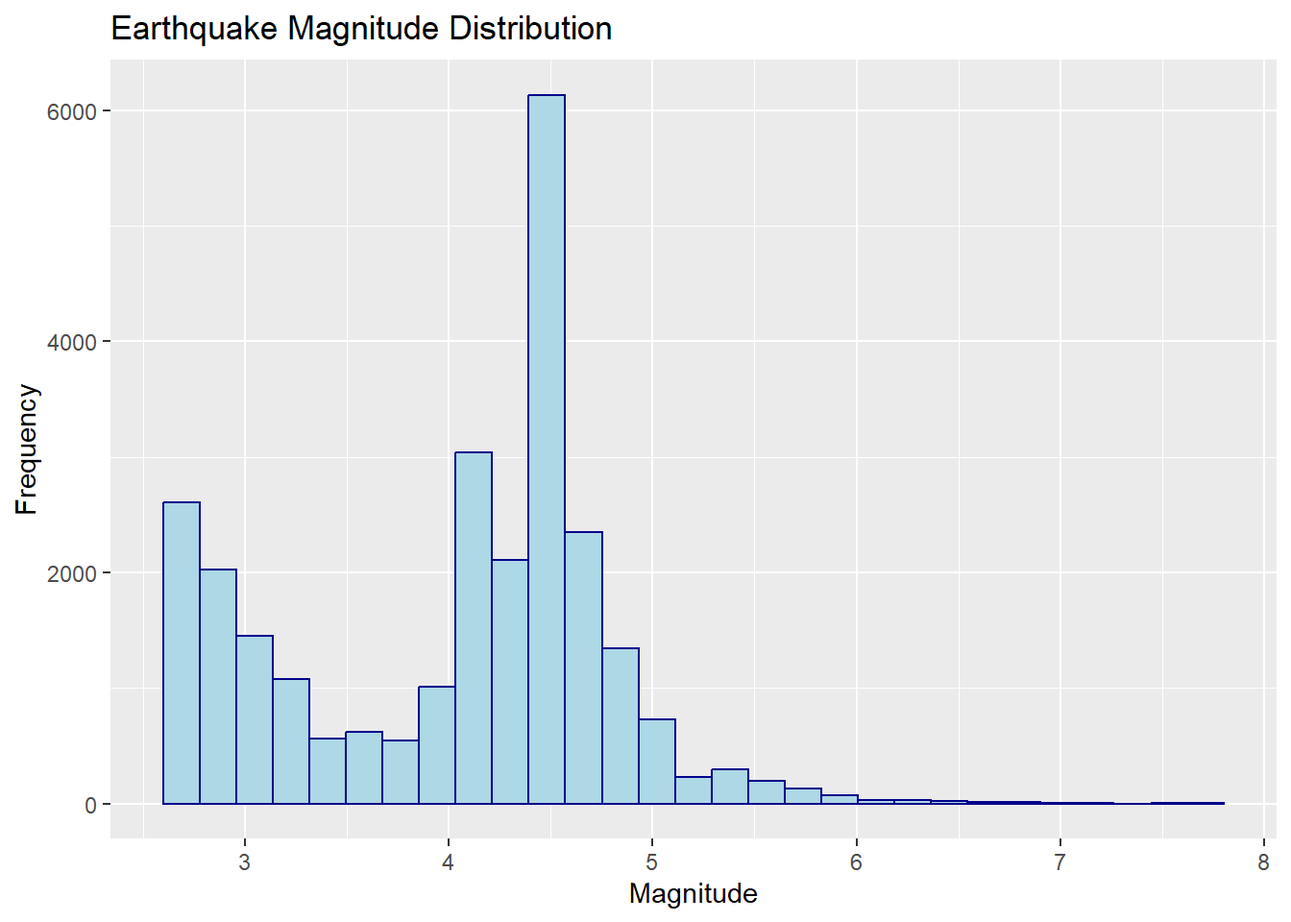
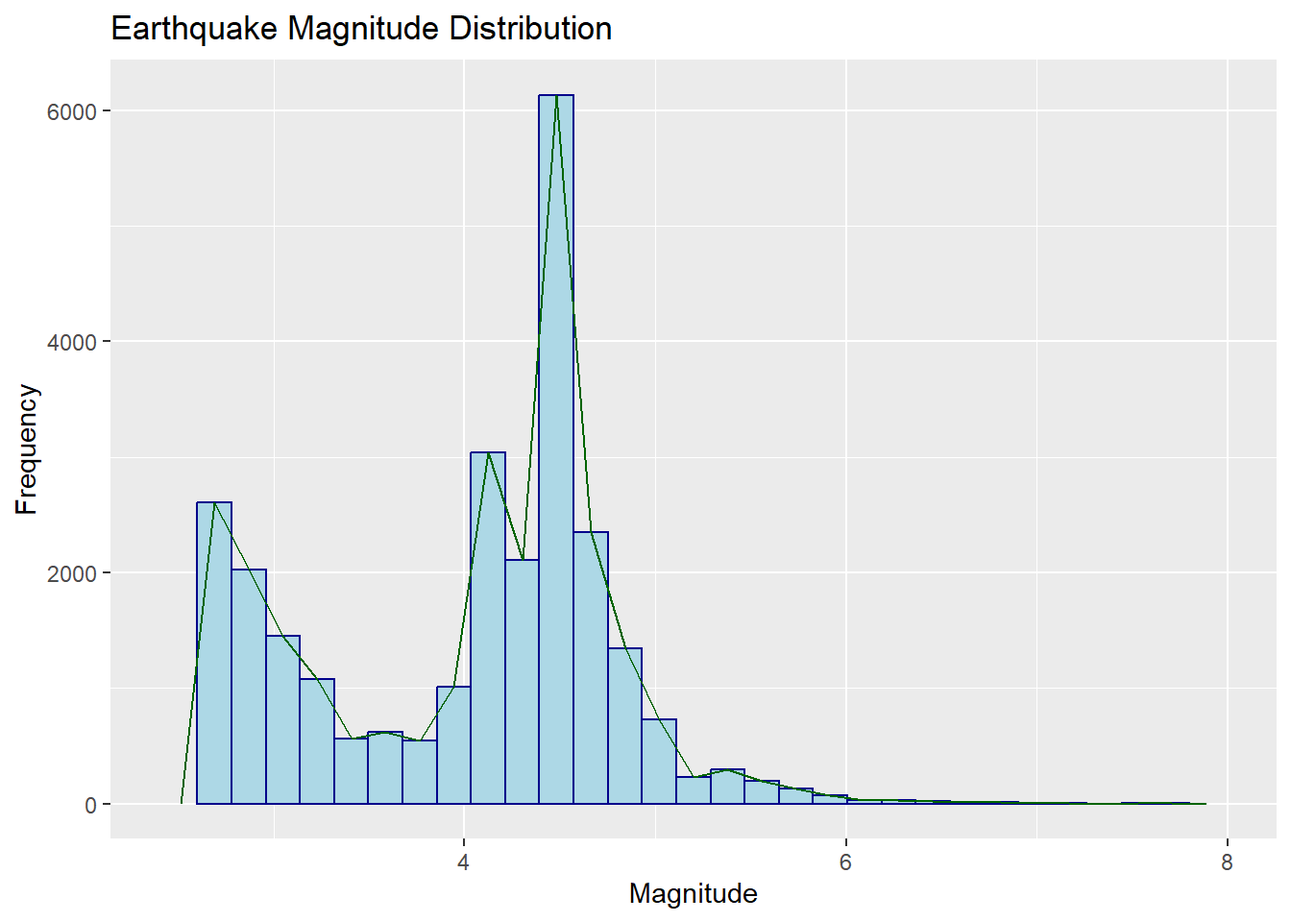
Make changes

diff --git a/docs/posts/2023 Global Earthquake Activity/index.html b/docs/posts/2023 Global Earthquake Activity/index.html
@@ -184,6 +184,7 @@ pre > code.sourceCode > span > a:first-child::before { text-decoration: underlin
 
 <section id="introduction" class="level1">
 <h1>Introduction</h1>
+<p>This is an analysis of the 2023 global earthquake data. The data was obtained from <a href="https://www.kaggle.com/datasets/mustafakeser4/earthquakes-2023-global/data">Earthquakes 2023 Global</a>. The data contains information about the location, magnitude, depth, and other attributes of earthquakes that occurred in 2023. The data is stored in a CSV file and contains 26642 rows and 22 columns. The primary goal of this analysis is to explore the distribution of earthquake magnitudes, the relationship between earthquake magnitudes and depths, and the geographical distribution of earthquakes around the world.</p>
 </section>
 <section id="primary-visualization" class="level1">
 <h1>Primary Visualization</h1>
@@ -192,30 +193,64 @@ pre > code.sourceCode > span > a:first-child::before { text-decoration: underlin
 <div class="cell">
 <div class="sourceCode cell-code" id="cb1"><pre class="sourceCode r code-with-copy"><code class="sourceCode r"><span id="cb1-1"><a href="#cb1-1" aria-hidden="true" tabindex="-1"></a><span class="fu">ggplot</span>(earthquake_df, <span class="fu">aes</span>(<span class="at">x =</span> mag)) <span class="sc">+</span></span>
 <span id="cb1-2"><a href="#cb1-2" aria-hidden="true" tabindex="-1"></a>  <span class="fu">geom_histogram</span>(<span class="at">fill =</span> <span class="st">"lightblue"</span>, <span class="at">color =</span> <span class="st">"darkblue"</span>) <span class="sc">+</span></span>
-<span id="cb1-3"><a href="#cb1-3" aria-hidden="true" tabindex="-1"></a>  <span class="fu">labs</span>(<span class="at">title =</span> <span class="st">"Earthquake Magnitude Distribution"</span>,</span>
-<span id="cb1-4"><a href="#cb1-4" aria-hidden="true" tabindex="-1"></a>       <span class="at">x =</span> <span class="st">"Magnitude"</span>,</span>
-<span id="cb1-5"><a href="#cb1-5" aria-hidden="true" tabindex="-1"></a>       <span class="at">y =</span> <span class="st">"Frequency"</span>)</span></code><button title="Copy to Clipboard" class="code-copy-button"><i class="bi"></i></button></pre></div>
+<span id="cb1-3"><a href="#cb1-3" aria-hidden="true" tabindex="-1"></a>  <span class="fu">geom_freqpoly</span>(<span class="at">color =</span> <span class="st">"darkgreen"</span>) <span class="sc">+</span></span>
+<span id="cb1-4"><a href="#cb1-4" aria-hidden="true" tabindex="-1"></a>  <span class="fu">labs</span>(<span class="at">title =</span> <span class="st">"Earthquake Magnitude Distribution"</span>,</span>
+<span id="cb1-5"><a href="#cb1-5" aria-hidden="true" tabindex="-1"></a>       <span class="at">x =</span> <span class="st">"Magnitude"</span>,</span>
+<span id="cb1-6"><a href="#cb1-6" aria-hidden="true" tabindex="-1"></a>       <span class="at">y =</span> <span class="st">"Frequency"</span>)</span></code><button title="Copy to Clipboard" class="code-copy-button"><i class="bi"></i></button></pre></div>
 <div class="cell-output cell-output-stderr">
-<pre><code>`stat_bin()` using `bins = 30`. Pick better value with `binwidth`.</code></pre>
+<pre><code>`stat_bin()` using `bins = 30`. Pick better value with `binwidth`.
+`stat_bin()` using `bins = 30`. Pick better value with `binwidth`.</code></pre>
 </div>
 <div class="cell-output-display">
 <p><img src="index_files/figure-html/unnamed-chunk-1-1.png" class="img-fluid" width="672"></p>
 </div>
 </div>
 </section>
+<section id="intepretation" class="level2">
+<h2 class="anchored" data-anchor-id="intepretation">Intepretation</h2>
+<p>The histogram above shows the distribution of earthquake magnitudes. The majority of earthquakes have a magnitude between 4 and 5. There are very few earthquakes with a magnitude greater than 7. This is consistent with the fact that most earthquakes are small and go unnoticed by people, while large earthquakes are relatively rare.</p>
+</section>
 <section id="earthquake-magnitude-vs-depth" class="level2">
 <h2 class="anchored" data-anchor-id="earthquake-magnitude-vs-depth">Earthquake Magnitude vs Depth</h2>
 <div class="cell">
-<div class="sourceCode cell-code" id="cb3"><pre class="sourceCode r code-with-copy"><code class="sourceCode r"><span id="cb3-1"><a href="#cb3-1" aria-hidden="true" tabindex="-1"></a>earthquake_df<span class="sc">$</span>type <span class="ot">&lt;-</span> <span class="fu">as.factor</span>(earthquake_df<span class="sc">$</span>type)</span></code><button title="Copy to Clipboard" class="code-copy-button"><i class="bi"></i></button></pre></div>
+<div class="sourceCode cell-code" id="cb3"><pre class="sourceCode r code-with-copy"><code class="sourceCode r"><span id="cb3-1"><a href="#cb3-1" aria-hidden="true" tabindex="-1"></a>earthquake_df<span class="sc">$</span>type <span class="ot">&lt;-</span> <span class="fu">as.factor</span>(earthquake_df<span class="sc">$</span>type)</span>
+<span id="cb3-2"><a href="#cb3-2" aria-hidden="true" tabindex="-1"></a></span>
+<span id="cb3-3"><a href="#cb3-3" aria-hidden="true" tabindex="-1"></a>earthquake_df <span class="sc">|&gt;</span> </span>
+<span id="cb3-4"><a href="#cb3-4" aria-hidden="true" tabindex="-1"></a>  <span class="fu">filter</span>(type <span class="sc">==</span> <span class="st">"earthquake"</span>) <span class="sc">|&gt;</span> </span>
+<span id="cb3-5"><a href="#cb3-5" aria-hidden="true" tabindex="-1"></a>  <span class="fu">ggplot</span>(<span class="fu">aes</span>(<span class="at">y =</span> mag, <span class="at">x =</span> depth)) <span class="sc">+</span></span>
+<span id="cb3-6"><a href="#cb3-6" aria-hidden="true" tabindex="-1"></a>  <span class="fu">geom_jitter</span>(<span class="at">alpha =</span> <span class="fl">0.1</span>, <span class="at">color =</span> <span class="st">"#a45b9c"</span>) <span class="sc">+</span></span>
+<span id="cb3-7"><a href="#cb3-7" aria-hidden="true" tabindex="-1"></a>  <span class="fu">geom_smooth</span>(<span class="at">method =</span> <span class="st">"lm"</span>, </span>
+<span id="cb3-8"><a href="#cb3-8" aria-hidden="true" tabindex="-1"></a>              <span class="at">se =</span> <span class="cn">FALSE</span>, </span>
+<span id="cb3-9"><a href="#cb3-9" aria-hidden="true" tabindex="-1"></a>              <span class="at">color =</span> <span class="st">"red"</span>) <span class="sc">+</span></span>
+<span id="cb3-10"><a href="#cb3-10" aria-hidden="true" tabindex="-1"></a>  <span class="fu">labs</span>(<span class="at">title =</span> <span class="st">"Earthquake Magnitude vs Depth"</span>,</span>
+<span id="cb3-11"><a href="#cb3-11" aria-hidden="true" tabindex="-1"></a>       <span class="at">x =</span> <span class="st">"Depth"</span>,</span>
+<span id="cb3-12"><a href="#cb3-12" aria-hidden="true" tabindex="-1"></a>       <span class="at">y =</span> <span class="st">"Magnitude"</span>) <span class="sc">+</span></span>
+<span id="cb3-13"><a href="#cb3-13" aria-hidden="true" tabindex="-1"></a>  <span class="fu">scale_fill_viridis_c</span>()</span></code><button title="Copy to Clipboard" class="code-copy-button"><i class="bi"></i></button></pre></div>
+<div class="cell-output cell-output-stderr">
+<pre><code>`geom_smooth()` using formula = 'y ~ x'</code></pre>
 </div>
+<div class="cell-output-display">
+<p><img src="index_files/figure-html/unnamed-chunk-2-1.png" class="img-fluid" width="672"></p>
+</div>
+</div>
+<section id="intepretation-1" class="level3">
+<h3 class="anchored" data-anchor-id="intepretation-1">Intepretation</h3>
+<p>The scatter plot above shows the relationship between earthquake magnitude and depth. There is a weak positive relationship between earthquake magnitude and depth. This means that larger earthquakes tend to occur at greater depths. However, the relationship is not very strong, and there is a lot of variability in the data. This suggests that depth is not a very good predictor of earthquake magnitude.</p>
+</section>
+</section>
+<section id="earthquake-magnitude-vs-rms-root-mean-square" class="level2">
+<h2 class="anchored" data-anchor-id="earthquake-magnitude-vs-rms-root-mean-square">Earthquake Magnitude vs rms (Root Mean Square)</h2>
 <div class="cell">
-<div class="sourceCode cell-code" id="cb4"><pre class="sourceCode r code-with-copy"><code class="sourceCode r"><span id="cb4-1"><a href="#cb4-1" aria-hidden="true" tabindex="-1"></a>earthquake_df <span class="sc">|&gt;</span> </span>
-<span id="cb4-2"><a href="#cb4-2" aria-hidden="true" tabindex="-1"></a>  <span class="fu">filter</span>(type <span class="sc">==</span> <span class="st">"earthquake"</span>) <span class="sc">|&gt;</span> </span>
-<span id="cb4-3"><a href="#cb4-3" aria-hidden="true" tabindex="-1"></a>  <span class="fu">ggplot</span>(<span class="fu">aes</span>(<span class="at">y =</span> mag, <span class="at">x =</span> depth)) <span class="sc">+</span></span>
-<span id="cb4-4"><a href="#cb4-4" aria-hidden="true" tabindex="-1"></a>  <span class="fu">geom_jitter</span>(<span class="at">alpha =</span> <span class="fl">0.5</span>) <span class="sc">+</span></span>
-<span id="cb4-5"><a href="#cb4-5" aria-hidden="true" tabindex="-1"></a>  <span class="fu">geom_smooth</span>(<span class="at">method =</span> <span class="st">"lm"</span>, </span>
-<span id="cb4-6"><a href="#cb4-6" aria-hidden="true" tabindex="-1"></a>              <span class="at">se =</span> <span class="cn">FALSE</span>, </span>
-<span id="cb4-7"><a href="#cb4-7" aria-hidden="true" tabindex="-1"></a>              <span class="at">color =</span> <span class="st">"red"</span>)</span></code><button title="Copy to Clipboard" class="code-copy-button"><i class="bi"></i></button></pre></div>
+<div class="sourceCode cell-code" id="cb5"><pre class="sourceCode r code-with-copy"><code class="sourceCode r"><span id="cb5-1"><a href="#cb5-1" aria-hidden="true" tabindex="-1"></a>earthquake_df <span class="sc">|&gt;</span> </span>
+<span id="cb5-2"><a href="#cb5-2" aria-hidden="true" tabindex="-1"></a>  <span class="fu">filter</span>(type <span class="sc">==</span> <span class="st">"earthquake"</span>) <span class="sc">|&gt;</span> </span>
+<span id="cb5-3"><a href="#cb5-3" aria-hidden="true" tabindex="-1"></a>  <span class="fu">ggplot</span>(<span class="fu">aes</span>(<span class="at">y =</span> mag, <span class="at">x =</span> rms)) <span class="sc">+</span></span>
+<span id="cb5-4"><a href="#cb5-4" aria-hidden="true" tabindex="-1"></a>  <span class="fu">geom_jitter</span>(<span class="at">alpha =</span> <span class="fl">0.5</span>, <span class="at">color =</span> <span class="st">"#a45b9c"</span>) <span class="sc">+</span></span>
+<span id="cb5-5"><a href="#cb5-5" aria-hidden="true" tabindex="-1"></a>  <span class="fu">geom_smooth</span>(<span class="at">method =</span> <span class="st">"lm"</span>, </span>
+<span id="cb5-6"><a href="#cb5-6" aria-hidden="true" tabindex="-1"></a>              <span class="at">se =</span> <span class="cn">FALSE</span>, </span>
+<span id="cb5-7"><a href="#cb5-7" aria-hidden="true" tabindex="-1"></a>              <span class="at">color =</span> <span class="st">"red"</span>) <span class="sc">+</span></span>
+<span id="cb5-8"><a href="#cb5-8" aria-hidden="true" tabindex="-1"></a>  <span class="fu">labs</span>(<span class="at">title =</span> <span class="st">"Earthquake Magnitude vs rms"</span>,</span>
+<span id="cb5-9"><a href="#cb5-9" aria-hidden="true" tabindex="-1"></a>       <span class="at">x =</span> <span class="st">"rms"</span>,</span>
+<span id="cb5-10"><a href="#cb5-10" aria-hidden="true" tabindex="-1"></a>       <span class="at">y =</span> <span class="st">"Magnitude"</span>) </span></code><button title="Copy to Clipboard" class="code-copy-button"><i class="bi"></i></button></pre></div>
 <div class="cell-output cell-output-stderr">
 <pre><code>`geom_smooth()` using formula = 'y ~ x'</code></pre>
 </div>
@@ -223,32 +258,15 @@ pre > code.sourceCode > span > a:first-child::before { text-decoration: underlin
 <p><img src="index_files/figure-html/unnamed-chunk-3-1.png" class="img-fluid" width="672"></p>
 </div>
 </div>
+<section id="intepretation-2" class="level3">
+<h3 class="anchored" data-anchor-id="intepretation-2">Intepretation</h3>
+<p>The scatter plot above shows the relationship between earthquake magnitude and rms (Root Mean Square). There seems to be a positive relationship between earthquake magnitude and rms. This means that larger earthquakes tend to have higher rms values. However, the relationship is not very strong, and there is a lot of variability in the data. This suggests that rms is not a very good predictor of earthquake magnitude.</p>
 </section>
-<section id="earthquake-depth-vs-rms-root-mean-square" class="level2">
-<h2 class="anchored" data-anchor-id="earthquake-depth-vs-rms-root-mean-square">Earthquake Depth vs rms (Root Mean Square)</h2>
-<div class="cell">
-<div class="sourceCode cell-code" id="cb6"><pre class="sourceCode r code-with-copy"><code class="sourceCode r"><span id="cb6-1"><a href="#cb6-1" aria-hidden="true" tabindex="-1"></a>earthquake_df <span class="sc">|&gt;</span> </span>
-<span id="cb6-2"><a href="#cb6-2" aria-hidden="true" tabindex="-1"></a>  <span class="fu">filter</span>(type <span class="sc">==</span> <span class="st">"earthquake"</span>) <span class="sc">|&gt;</span> </span>
-<span id="cb6-3"><a href="#cb6-3" aria-hidden="true" tabindex="-1"></a>  <span class="fu">ggplot</span>(<span class="fu">aes</span>(<span class="at">y =</span> depth, <span class="at">x =</span> rms)) <span class="sc">+</span></span>
-<span id="cb6-4"><a href="#cb6-4" aria-hidden="true" tabindex="-1"></a>  <span class="fu">geom_jitter</span>(<span class="at">alpha =</span> <span class="fl">0.5</span>) <span class="sc">+</span></span>
-<span id="cb6-5"><a href="#cb6-5" aria-hidden="true" tabindex="-1"></a>  <span class="fu">geom_smooth</span>(<span class="at">method =</span> <span class="st">"lm"</span>, </span>
-<span id="cb6-6"><a href="#cb6-6" aria-hidden="true" tabindex="-1"></a>              <span class="at">se =</span> <span class="cn">FALSE</span>, </span>
-<span id="cb6-7"><a href="#cb6-7" aria-hidden="true" tabindex="-1"></a>              <span class="at">color =</span> <span class="st">"red"</span>) <span class="sc">+</span></span>
-<span id="cb6-8"><a href="#cb6-8" aria-hidden="true" tabindex="-1"></a>  <span class="fu">labs</span>(<span class="at">title =</span> <span class="st">"Earthquake Depth vs rms"</span>,</span>
-<span id="cb6-9"><a href="#cb6-9" aria-hidden="true" tabindex="-1"></a>       <span class="at">x =</span> <span class="st">"rms"</span>,</span>
-<span id="cb6-10"><a href="#cb6-10" aria-hidden="true" tabindex="-1"></a>       <span class="at">y =</span> <span class="st">"Depth"</span>)</span></code><button title="Copy to Clipboard" class="code-copy-button"><i class="bi"></i></button></pre></div>
-<div class="cell-output cell-output-stderr">
-<pre><code>`geom_smooth()` using formula = 'y ~ x'</code></pre>
-</div>
-<div class="cell-output-display">
-<p><img src="index_files/figure-html/unnamed-chunk-4-1.png" class="img-fluid" width="672"></p>
-</div>
-</div>
 </section>
 <section id="geographical-distribution-of-earthquakes" class="level2">
 <h2 class="anchored" data-anchor-id="geographical-distribution-of-earthquakes">Geographical Distribution of Earthquakes</h2>
 <div class="cell">
-<div class="sourceCode cell-code" id="cb8"><pre class="sourceCode r code-with-copy"><code class="sourceCode r"><span id="cb8-1"><a href="#cb8-1" aria-hidden="true" tabindex="-1"></a><span class="fu">library</span>(maps)</span></code><button title="Copy to Clipboard" class="code-copy-button"><i class="bi"></i></button></pre></div>
+<div class="sourceCode cell-code" id="cb7"><pre class="sourceCode r code-with-copy"><code class="sourceCode r"><span id="cb7-1"><a href="#cb7-1" aria-hidden="true" tabindex="-1"></a><span class="fu">library</span>(maps)</span></code><button title="Copy to Clipboard" class="code-copy-button"><i class="bi"></i></button></pre></div>
 <div class="cell-output cell-output-stderr">
 <pre><code>Warning: package 'maps' was built under R version 4.2.3</code></pre>
 </div>
@@ -261,23 +279,31 @@ Attaching package: 'maps'</code></pre>
 
     map</code></pre>
 </div>
-<div class="sourceCode cell-code" id="cb12"><pre class="sourceCode r code-with-copy"><code class="sourceCode r"><span id="cb12-1"><a href="#cb12-1" aria-hidden="true" tabindex="-1"></a>world_map <span class="ot">&lt;-</span> <span class="fu">map_data</span>(<span class="st">"world"</span>)</span>
-<span id="cb12-2"><a href="#cb12-2" aria-hidden="true" tabindex="-1"></a></span>
-<span id="cb12-3"><a href="#cb12-3" aria-hidden="true" tabindex="-1"></a><span class="fu">ggplot</span>() <span class="sc">+</span></span>
-<span id="cb12-4"><a href="#cb12-4" aria-hidden="true" tabindex="-1"></a>  <span class="fu">geom_polygon</span>(<span class="at">data =</span> world_map, <span class="fu">aes</span>(<span class="at">x =</span> long, <span class="at">y =</span> lat, <span class="at">group =</span> group),</span>
-<span id="cb12-5"><a href="#cb12-5" aria-hidden="true" tabindex="-1"></a>                   <span class="at">fill =</span> <span class="st">"grey"</span>, <span class="at">color =</span> <span class="st">"black"</span>) <span class="sc">+</span></span>
-<span id="cb12-6"><a href="#cb12-6" aria-hidden="true" tabindex="-1"></a>  <span class="fu">coord_map</span>(<span class="at">projection =</span> <span class="st">"mercator"</span>, <span class="at">xlim =</span> <span class="fu">c</span>(<span class="sc">-</span><span class="dv">180</span>, <span class="dv">180</span>)) <span class="sc">+</span></span>
-<span id="cb12-7"><a href="#cb12-7" aria-hidden="true" tabindex="-1"></a>   <span class="fu">geom_point</span>(<span class="at">data =</span> earthquake_df, </span>
-<span id="cb12-8"><a href="#cb12-8" aria-hidden="true" tabindex="-1"></a>              <span class="fu">aes</span>(<span class="at">x =</span> longitude, <span class="at">y =</span> latitude, <span class="at">color =</span> mag), <span class="at">alpha =</span> <span class="fl">0.6</span>) <span class="sc">+</span></span>
-<span id="cb12-9"><a href="#cb12-9" aria-hidden="true" tabindex="-1"></a>  <span class="fu">labs</span>(<span class="at">title =</span> <span class="st">"Global Earthquakes 2023"</span>,</span>
-<span id="cb12-10"><a href="#cb12-10" aria-hidden="true" tabindex="-1"></a>                <span class="at">x =</span> <span class="st">"Longitude"</span>,</span>
-<span id="cb12-11"><a href="#cb12-11" aria-hidden="true" tabindex="-1"></a>                <span class="at">y =</span> <span class="st">"Latitude"</span>) <span class="sc">+</span></span>
-<span id="cb12-12"><a href="#cb12-12" aria-hidden="true" tabindex="-1"></a>          <span class="fu">theme_minimal</span>() <span class="sc">+</span></span>
-<span id="cb12-13"><a href="#cb12-13" aria-hidden="true" tabindex="-1"></a>  <span class="fu">scale_color_viridis_c</span>(<span class="at">name =</span> <span class="st">"Magnitude"</span>)</span></code><button title="Copy to Clipboard" class="code-copy-button"><i class="bi"></i></button></pre></div>
+<div class="sourceCode cell-code" id="cb11"><pre class="sourceCode r code-with-copy"><code class="sourceCode r"><span id="cb11-1"><a href="#cb11-1" aria-hidden="true" tabindex="-1"></a>world_map <span class="ot">&lt;-</span> <span class="fu">map_data</span>(<span class="st">"world"</span>)</span>
+<span id="cb11-2"><a href="#cb11-2" aria-hidden="true" tabindex="-1"></a></span>
+<span id="cb11-3"><a href="#cb11-3" aria-hidden="true" tabindex="-1"></a><span class="fu">ggplot</span>() <span class="sc">+</span></span>
+<span id="cb11-4"><a href="#cb11-4" aria-hidden="true" tabindex="-1"></a>  <span class="fu">geom_polygon</span>(<span class="at">data =</span> world_map, <span class="fu">aes</span>(<span class="at">x =</span> long, <span class="at">y =</span> lat, <span class="at">group =</span> group),</span>
+<span id="cb11-5"><a href="#cb11-5" aria-hidden="true" tabindex="-1"></a>                   <span class="at">fill =</span> <span class="st">"grey"</span>, <span class="at">color =</span> <span class="st">"black"</span>) <span class="sc">+</span></span>
+<span id="cb11-6"><a href="#cb11-6" aria-hidden="true" tabindex="-1"></a>  <span class="fu">coord_map</span>(<span class="at">projection =</span> <span class="st">"mercator"</span>, <span class="at">xlim =</span> <span class="fu">c</span>(<span class="sc">-</span><span class="dv">180</span>, <span class="dv">180</span>)) <span class="sc">+</span></span>
+<span id="cb11-7"><a href="#cb11-7" aria-hidden="true" tabindex="-1"></a>   <span class="fu">geom_point</span>(<span class="at">data =</span> earthquake_df, </span>
+<span id="cb11-8"><a href="#cb11-8" aria-hidden="true" tabindex="-1"></a>              <span class="fu">aes</span>(<span class="at">x =</span> longitude, <span class="at">y =</span> latitude, <span class="at">color =</span> mag), <span class="at">alpha =</span> <span class="fl">0.6</span>) <span class="sc">+</span></span>
+<span id="cb11-9"><a href="#cb11-9" aria-hidden="true" tabindex="-1"></a>  <span class="fu">labs</span>(<span class="at">title =</span> <span class="st">"Global Earthquakes 2023"</span>) <span class="sc">+</span></span>
+<span id="cb11-10"><a href="#cb11-10" aria-hidden="true" tabindex="-1"></a>  <span class="fu">scale_color_viridis_c</span>(<span class="at">name =</span> <span class="st">"Magnitude"</span>) <span class="sc">+</span></span>
+<span id="cb11-11"><a href="#cb11-11" aria-hidden="true" tabindex="-1"></a><span class="fu">theme</span>(<span class="at">plot.title =</span> <span class="fu">element_text</span>(<span class="at">hjust=</span><span class="fl">0.5</span>),</span>
+<span id="cb11-12"><a href="#cb11-12" aria-hidden="true" tabindex="-1"></a>      <span class="at">axis.ticks.x=</span><span class="fu">element_blank</span>(),</span>
+<span id="cb11-13"><a href="#cb11-13" aria-hidden="true" tabindex="-1"></a>      <span class="at">axis.text.y=</span><span class="fu">element_blank</span>())</span></code><button title="Copy to Clipboard" class="code-copy-button"><i class="bi"></i></button></pre></div>
 <div class="cell-output-display">
-<p><img src="index_files/figure-html/unnamed-chunk-5-1.png" class="img-fluid" width="672"></p>
+<p><img src="index_files/figure-html/unnamed-chunk-4-1.png" class="img-fluid" width="672"></p>
 </div>
 </div>
+<section id="interpretation" class="level3">
+<h3 class="anchored" data-anchor-id="interpretation">Interpretation</h3>
+<p>The map above shows the geographical distribution of earthquakes around the world. The color of the points represent the magnitude of the earthquakes with varying intensities. There are many earthquakes in the Pacific Ocean, along the west coast of South America, and in the Himalayas. There are also many earthquakes in the Mediterranean region, the Middle East, and Indonesia. There are relatively few earthquakes in Africa, Australia, and the central part of South America.The earthquakes points seem to be concentrated along the tectonic plate boundaries. This is consistent with the fact that most earthquakes occur along tectonic plate boundaries, where the Earth’s crust is under the most stress.</p>
+</section>
+</section>
+<section id="conclusion" class="level2">
+<h2 class="anchored" data-anchor-id="conclusion">Conclusion</h2>
+<p>In conclusion, this analysis has provided insights into the distribution of earthquake magnitudes, the relationship between earthquake magnitudes and depths, and the geographical distribution of earthquakes around the world. The majority of earthquakes have a magnitude between 4 and 5, and there are very few earthquakes with a magnitude greater than 7. There is a weak positive relationship between earthquake magnitude and depth, and a weak positive relationship between earthquake magnitude and rms. The geographical distribution of earthquakes is consistent with the fact that most earthquakes occur along tectonic plate boundaries. I would like to further investigate the way the magnitude of earthquakes has changed over time. I would argue that my visualizations are effective in communicating the relationships between magnitude, depth, and geographical distribution of earthquakes. The visualizations are clear, easy to understand, and provide valuable insights into the data due to the use of color, size, and position to represent different attributes of the data. The scatter plot effectively shows the relationship between earthquake magnitude and depth, and the map effectively shows the geographical distribution of earthquakes around the world.All the plots have a low data-ink ratio and are not misleading.</p>
 
 
 </section>

diff --git a/docs/index.html b/docs/index.html
@@ -170,7 +170,7 @@ ul.task-list li input[type="checkbox"] {
 
 <div class="quarto-listing quarto-listing-container-default" id="listing-listing">
 <div class="list quarto-listing-default">
-<div class="quarto-post image-right" data-index="0" data-categories="Introduction,Primary Visualization,analysis" data-listing-date-sort="1708318800000" data-listing-file-modified-sort="1708643947456" data-listing-date-modified-sort="NaN" data-listing-reading-time-sort="2">
+<div class="quarto-post image-right" data-index="0" data-categories="Introduction,Primary Visualization,analysis" data-listing-date-sort="1708318800000" data-listing-file-modified-sort="1708653325323" data-listing-date-modified-sort="NaN" data-listing-reading-time-sort="5">
 <div class="thumbnail">
 <p><a href="./posts/2023 Global Earthquake Activity/index.html"> <p class="card-img-top"><img src="posts\2023 Global Earthquake Activity\index_files\figure-html\unnamed-chunk-1-1.png"  class="thumbnail-image card-img"/></p> </a></p>
 </div>
@@ -196,7 +196,7 @@ analysis
 </div>
 <a href="./posts/2023 Global Earthquake Activity/index.html">
 <div class="listing-description">
-
+This is an analysis of the 2023 global earthquake data. The data was obtained from Earthquakes 2023 Global. The data contains information about the location, magnitude, depth, and other attributes of earthquakes that occurred in 2023. The data is stored in a CSV file and…
 </div>
 </a>
 </div>
@@ -211,7 +211,7 @@ Rodrick Mpofu
 </a>
 </div>
 </div>
-<div class="quarto-post image-right" data-index="1" data-categories="Introduction,Primary Visualization,analysis" data-listing-date-sort="1707454800000" data-listing-file-modified-sort="1707502980415" data-listing-date-modified-sort="NaN" data-listing-reading-time-sort="4">
+<div class="quarto-post image-right" data-index="1" data-categories="Introduction,Primary Visualization,analysis" data-listing-date-sort="1707454800000" data-listing-file-modified-sort="1708644290966" data-listing-date-modified-sort="NaN" data-listing-reading-time-sort="4">
 <div class="thumbnail">
 <p><a href="./posts/English Premier League Exploration/index.html"> <p class="card-img-top"><img src="posts\English Premier League Exploration\index_files\figure-html\unnamed-chunk-1-1.png"  class="thumbnail-image card-img"/></p> </a></p>
 </div>

diff --git a/docs/posts/English Premier League Exploration/index.html b/docs/posts/English Premier League Exploration/index.html
@@ -204,7 +204,8 @@ pre > code.sourceCode > span > a:first-child::before { text-decoration: underlin
 <div class="cell">
 <div class="sourceCode cell-code" id="cb1"><pre class="sourceCode r code-with-copy"><code class="sourceCode r"><span id="cb1-1"><a href="#cb1-1" aria-hidden="true" tabindex="-1"></a><span class="fu">ggplot</span>(matches, <span class="fu">aes</span>(<span class="at">x=</span>Result, <span class="at">y=</span> Poss)) <span class="sc">+</span> </span>
 <span id="cb1-2"><a href="#cb1-2" aria-hidden="true" tabindex="-1"></a>  <span class="fu">geom_boxplot</span>() <span class="sc">+</span> </span>
-<span id="cb1-3"><a href="#cb1-3" aria-hidden="true" tabindex="-1"></a>  <span class="fu">labs</span>(<span class="at">title =</span> <span class="st">"Possession Percentage by Match Result"</span>, <span class="at">x =</span> <span class="st">"Result"</span>, <span class="at">y =</span> <span class="st">"Possession Percentage"</span>)</span></code><button title="Copy to Clipboard" class="code-copy-button"><i class="bi"></i></button></pre></div>
+<span id="cb1-3"><a href="#cb1-3" aria-hidden="true" tabindex="-1"></a>  <span class="fu">labs</span>(<span class="at">title =</span> <span class="st">"Possession Percentage by Match Result"</span>, </span>
+<span id="cb1-4"><a href="#cb1-4" aria-hidden="true" tabindex="-1"></a>       <span class="at">x =</span> <span class="st">"Result"</span>, <span class="at">y =</span> <span class="st">"Possession Percentage"</span>)</span></code><button title="Copy to Clipboard" class="code-copy-button"><i class="bi"></i></button></pre></div>
 <div class="cell-output-display">
 <p><img src="index_files/figure-html/unnamed-chunk-1-1.png" class="img-fluid" width="672"></p>
 </div>
